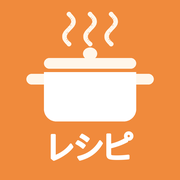
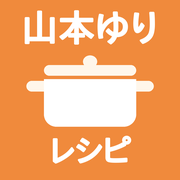
ゆりさんレシピ：アイコンに「山本ゆり」の名前を入れる
Claude-Session: https://claude.ai/code/session_01XUGyJiG53xReXA8Vu2FfKc

Changed region(s): [[0.1389, 0.0556, 0.8611, 0.5278], [0.2222, 0.6111, 0.7778, 0.9167], [0.1111, 0.0556, 0.3056, 0.25]]

diff --git a/yamamoto-recipe.html b/yamamoto-recipe.html
@@ -5,8 +5,8 @@
 <meta name="viewport" content="width=device-width, initial-scale=1.0, viewport-fit=cover">
 <title>ゆりさんレシピ</title>
 <meta name="description" content="山本ゆりさんのレシピを、すぐ見られる入口ページ">
-<link rel="apple-touch-icon" href="yamamoto-recipe-icon.png">
-<link rel="icon" type="image/png" href="yamamoto-recipe-icon.png">
+<link rel="apple-touch-icon" href="yamamoto-recipe-icon.png?v=2">
+<link rel="icon" type="image/png" href="yamamoto-recipe-icon.png?v=2">
 <link rel="manifest" href="yamamoto-recipe.webmanifest">
 <meta name="apple-mobile-web-app-capable" content="yes">
 <meta name="mobile-web-app-capable" content="yes">
